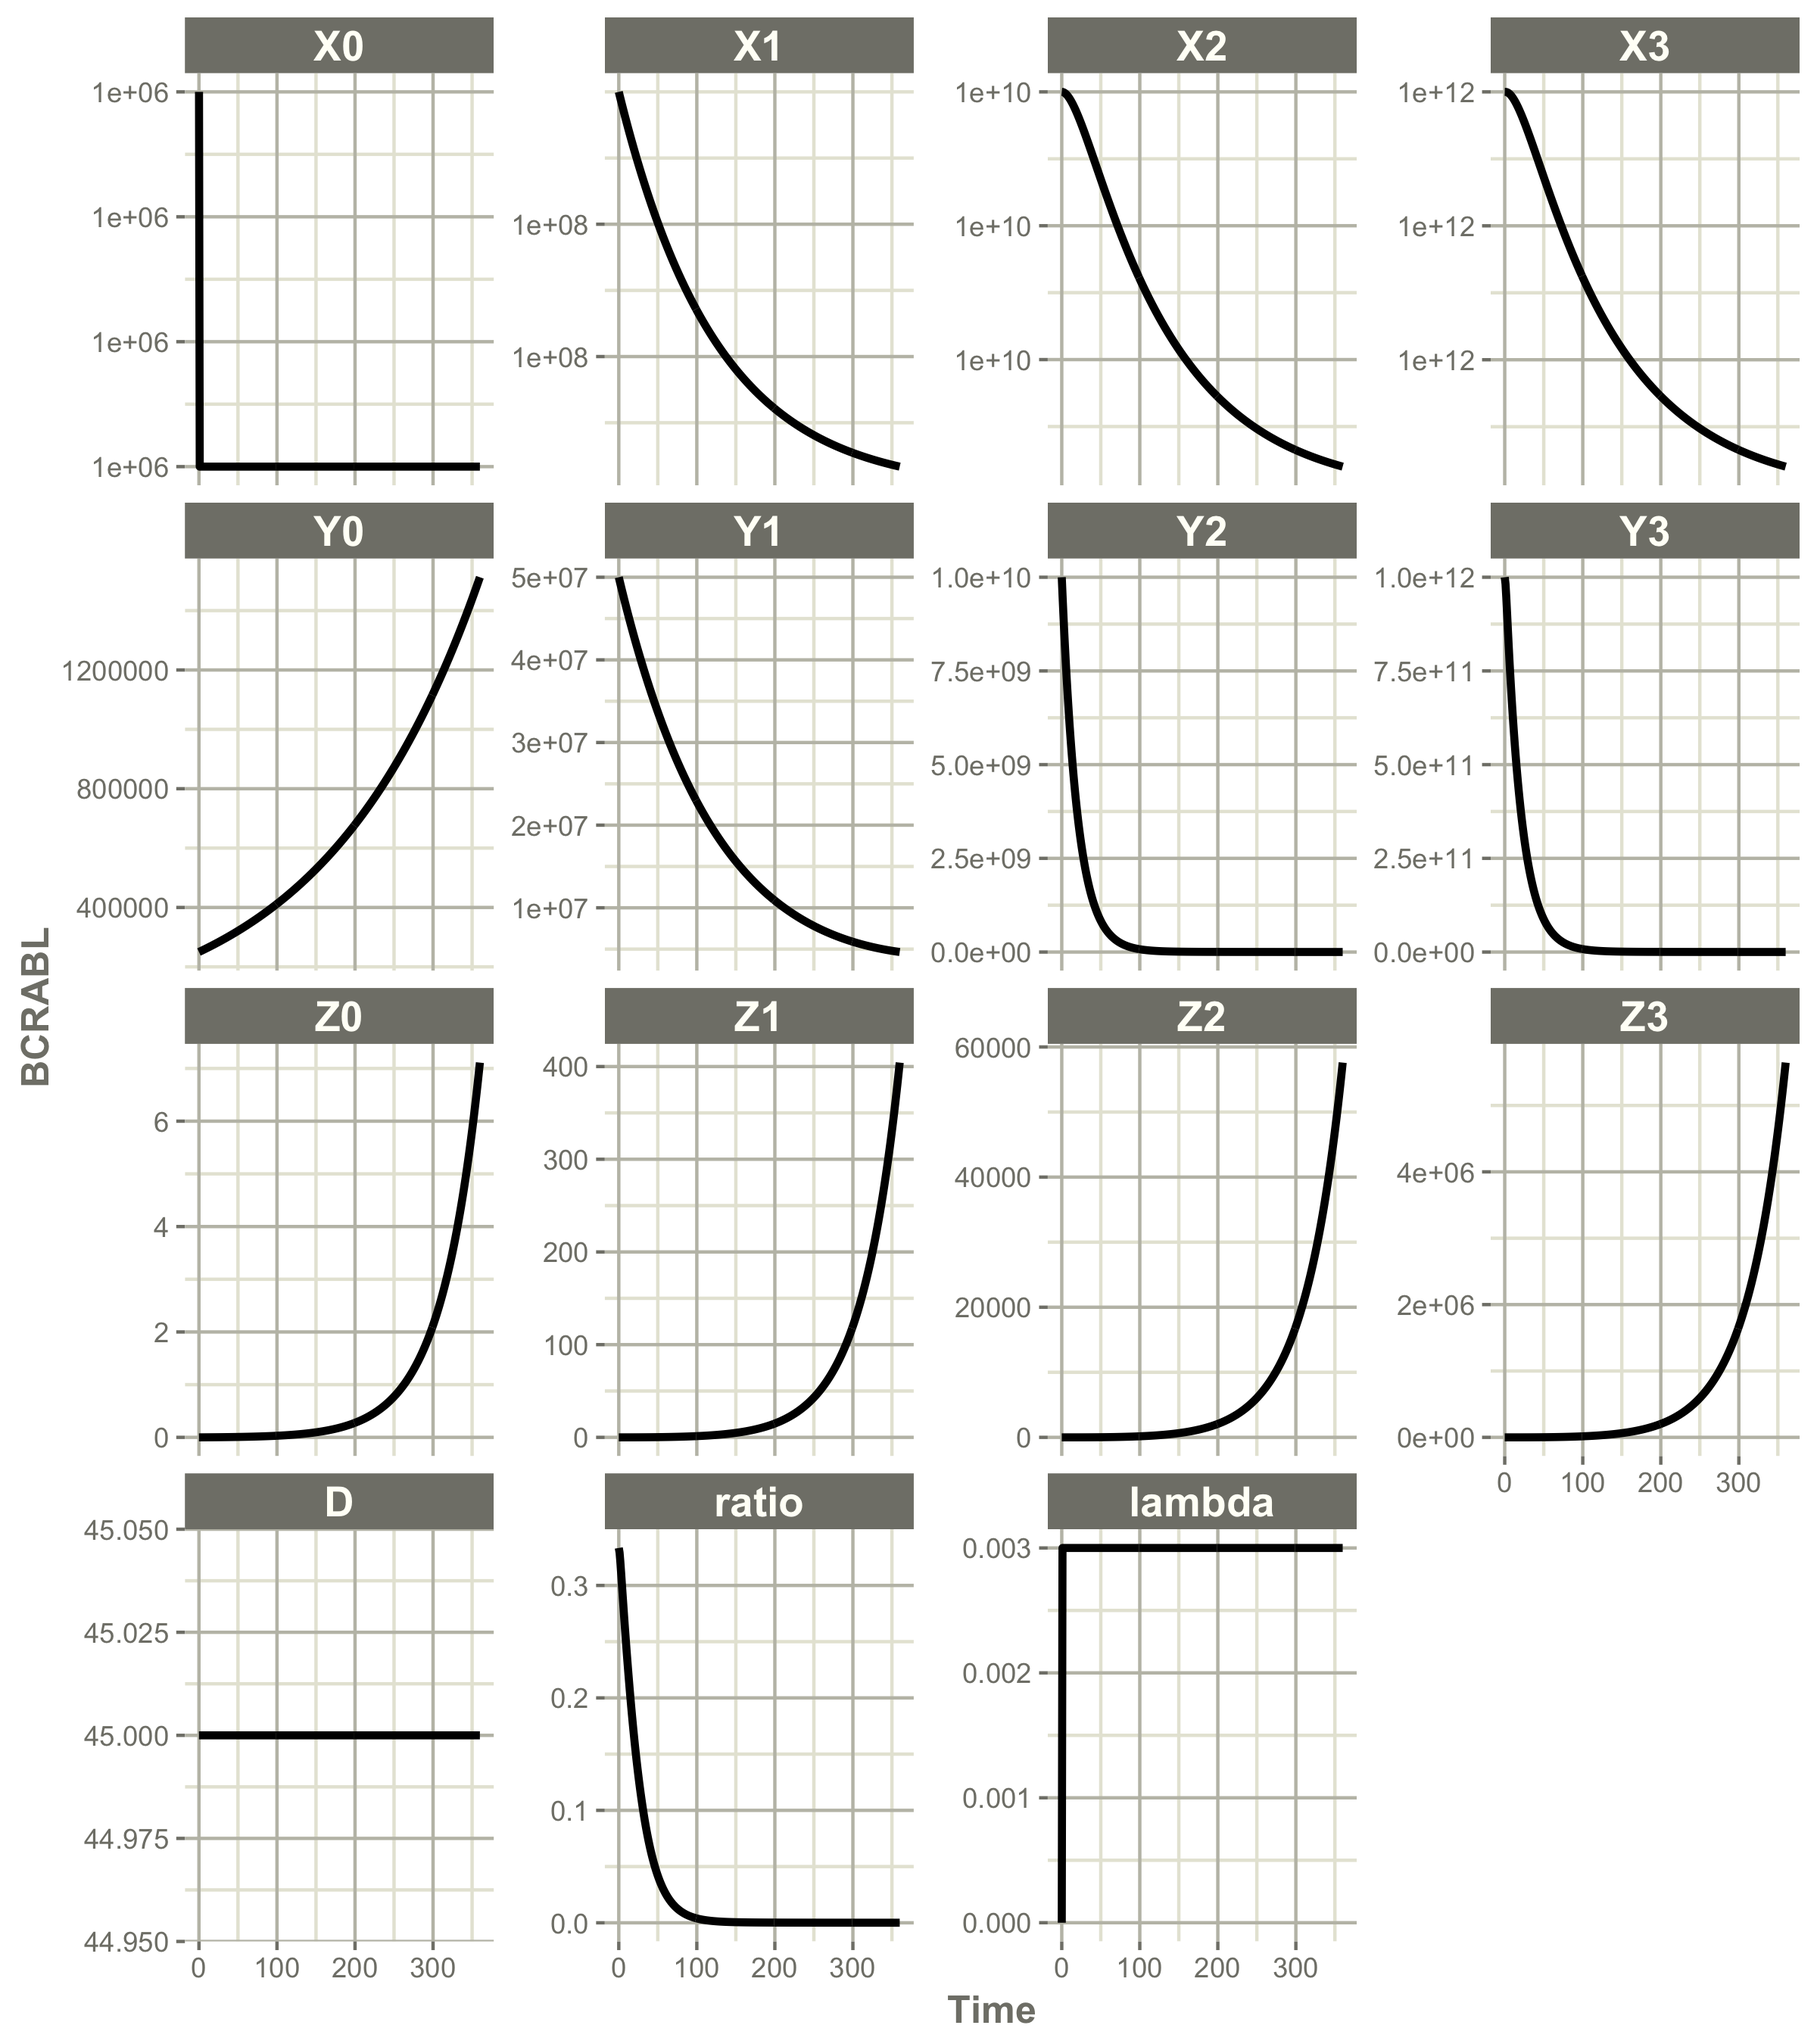
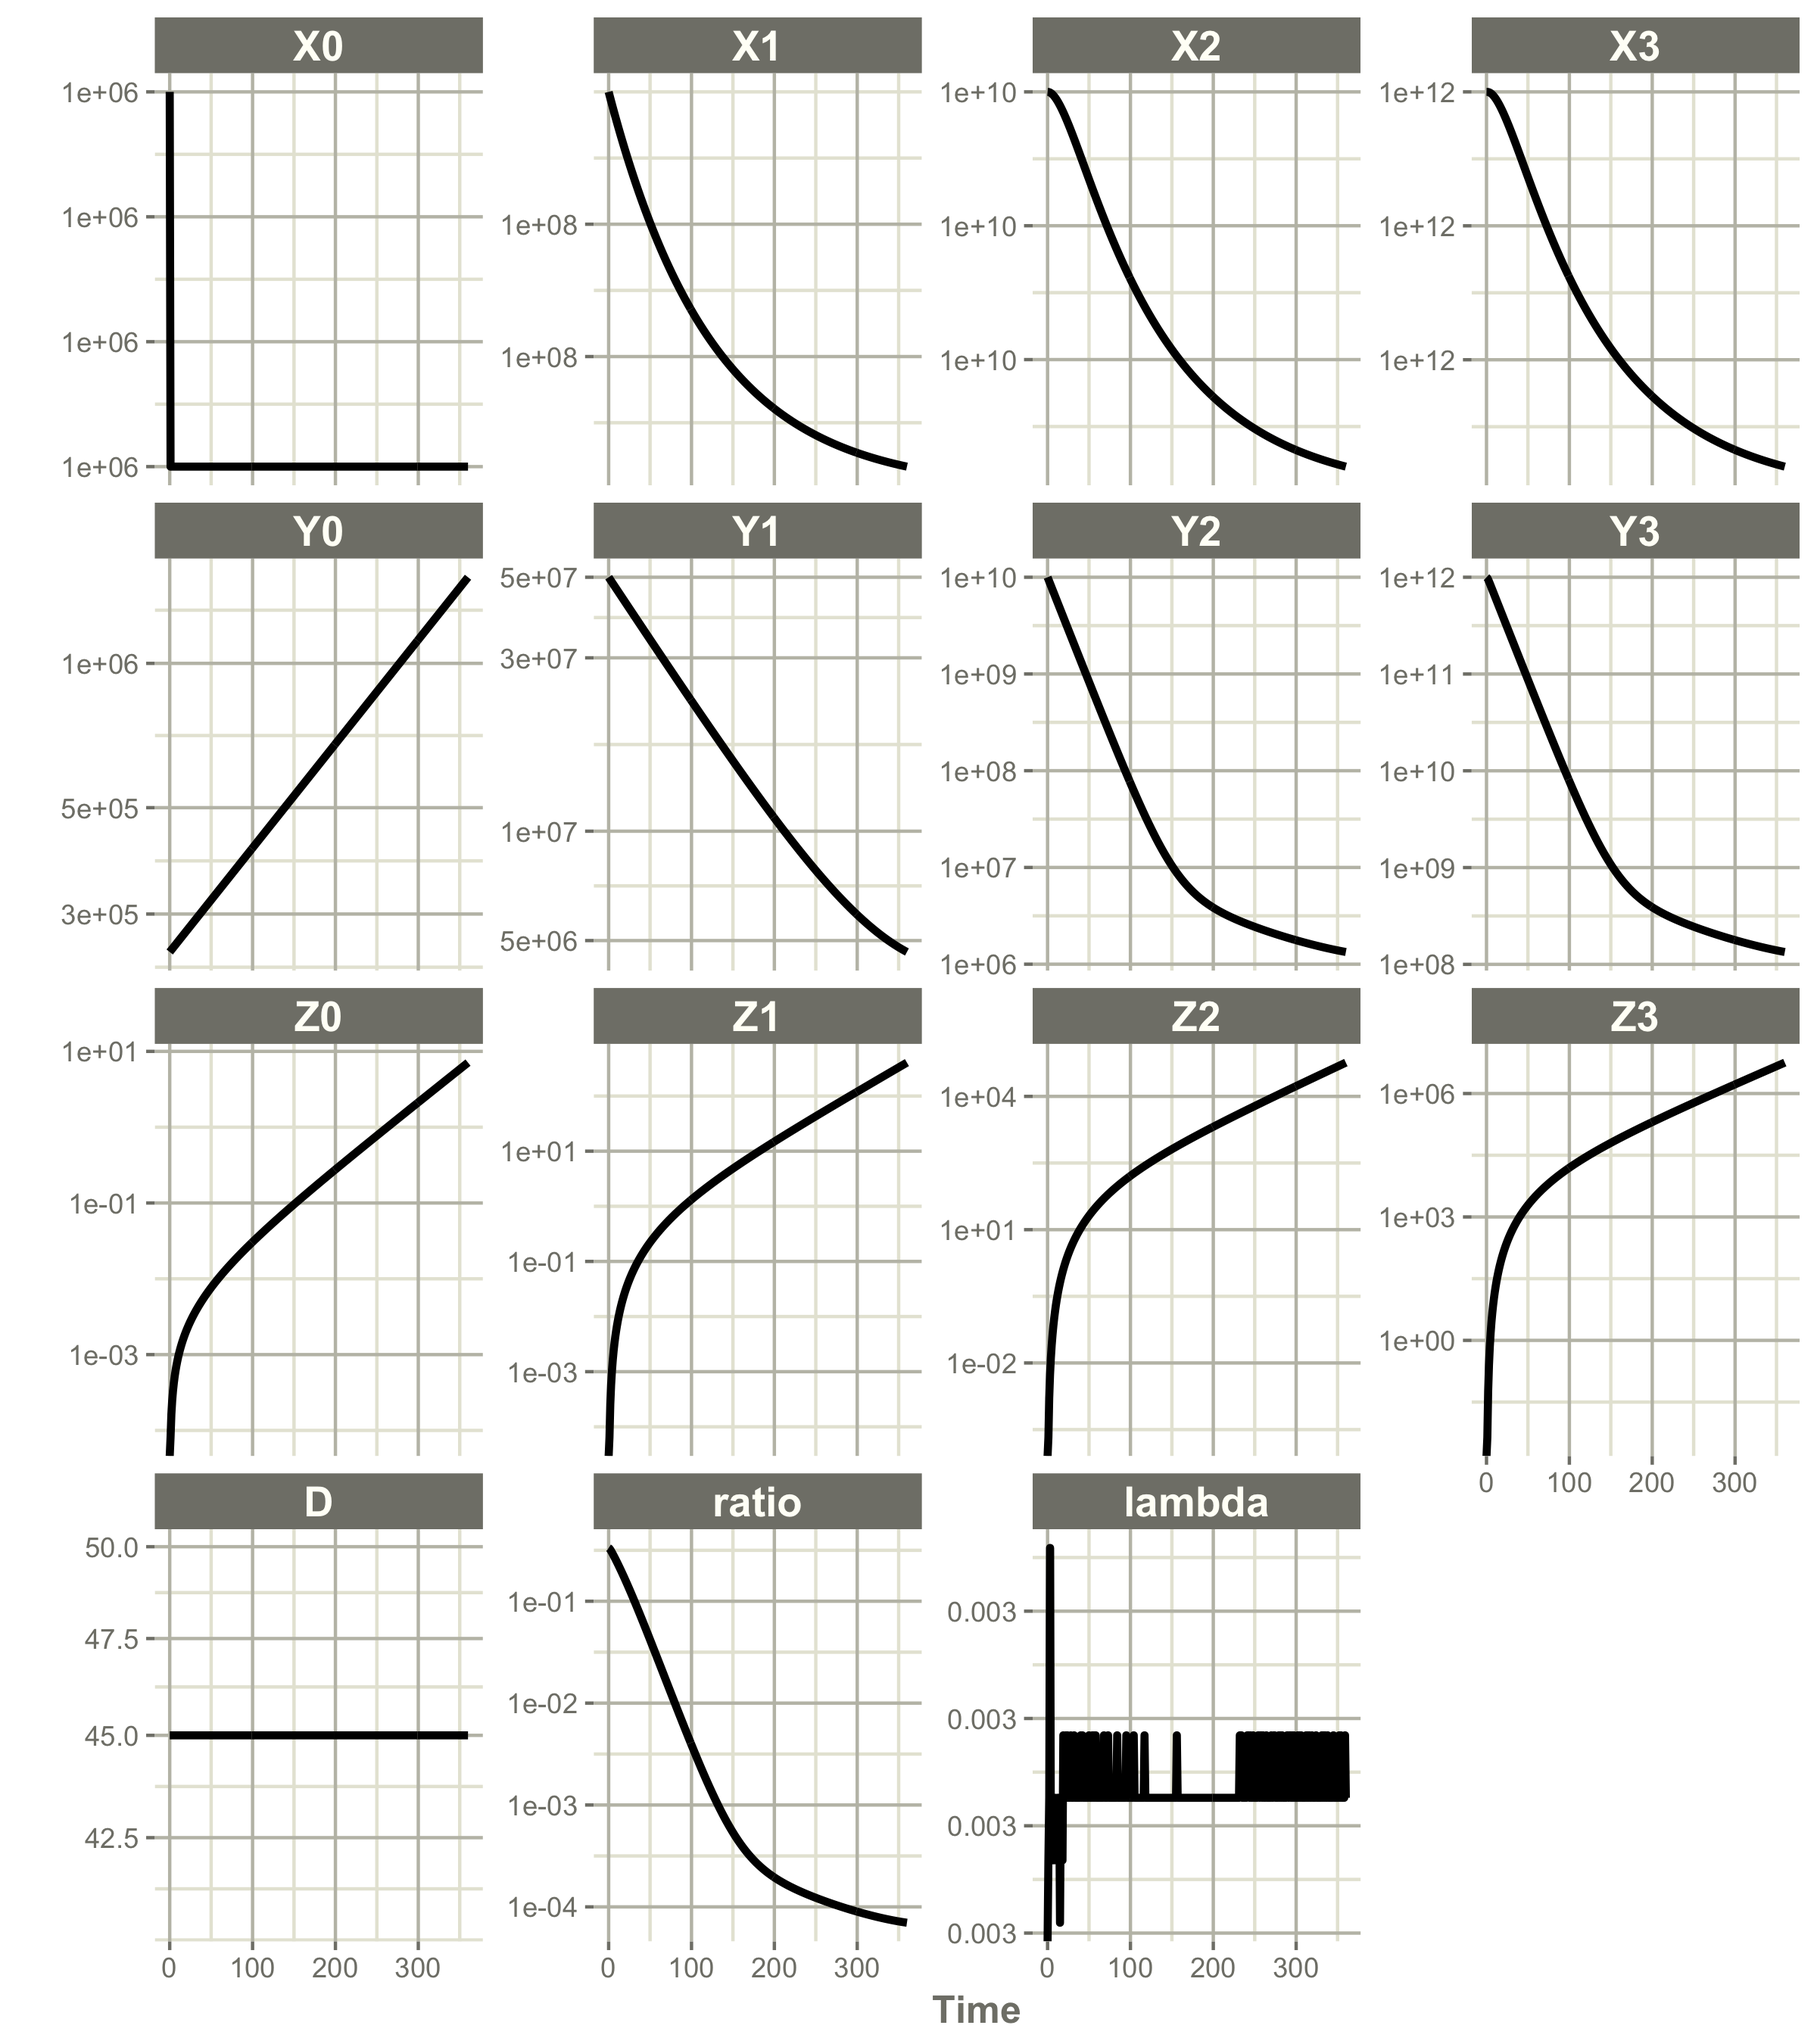
add michor in RxODE

diff --git a/CML/michor05/compile/README.md b/CML/michor05/compile/README.md
@@ -192,7 +192,11 @@ ev  <- et(amountUnits="mg", timeUnits="Days") %>%
   et(0:360) # Add sampling 
 x <- m1 %>% rxSolve(pars, ev, y0);
 knitr::kable(head(x))
-plot(x) + ylab("BCRABL")
+plot(x)+scale_y_log10() 
 ggsave("../docs/michorRxODEfg4a.png",width=8,height=9)
+plot(x,"ratio")+scale_y_log10()+ ylab("BCRABL/BCR")
+ggsave("../docs/michorRxODEfg4aRatio.png",width=8,height=9)
+
 ```
 ![](../../../docs/michorRxODEfg4a.png)
+![](../../../docs/michorRxODEfg4aRatio.png)
